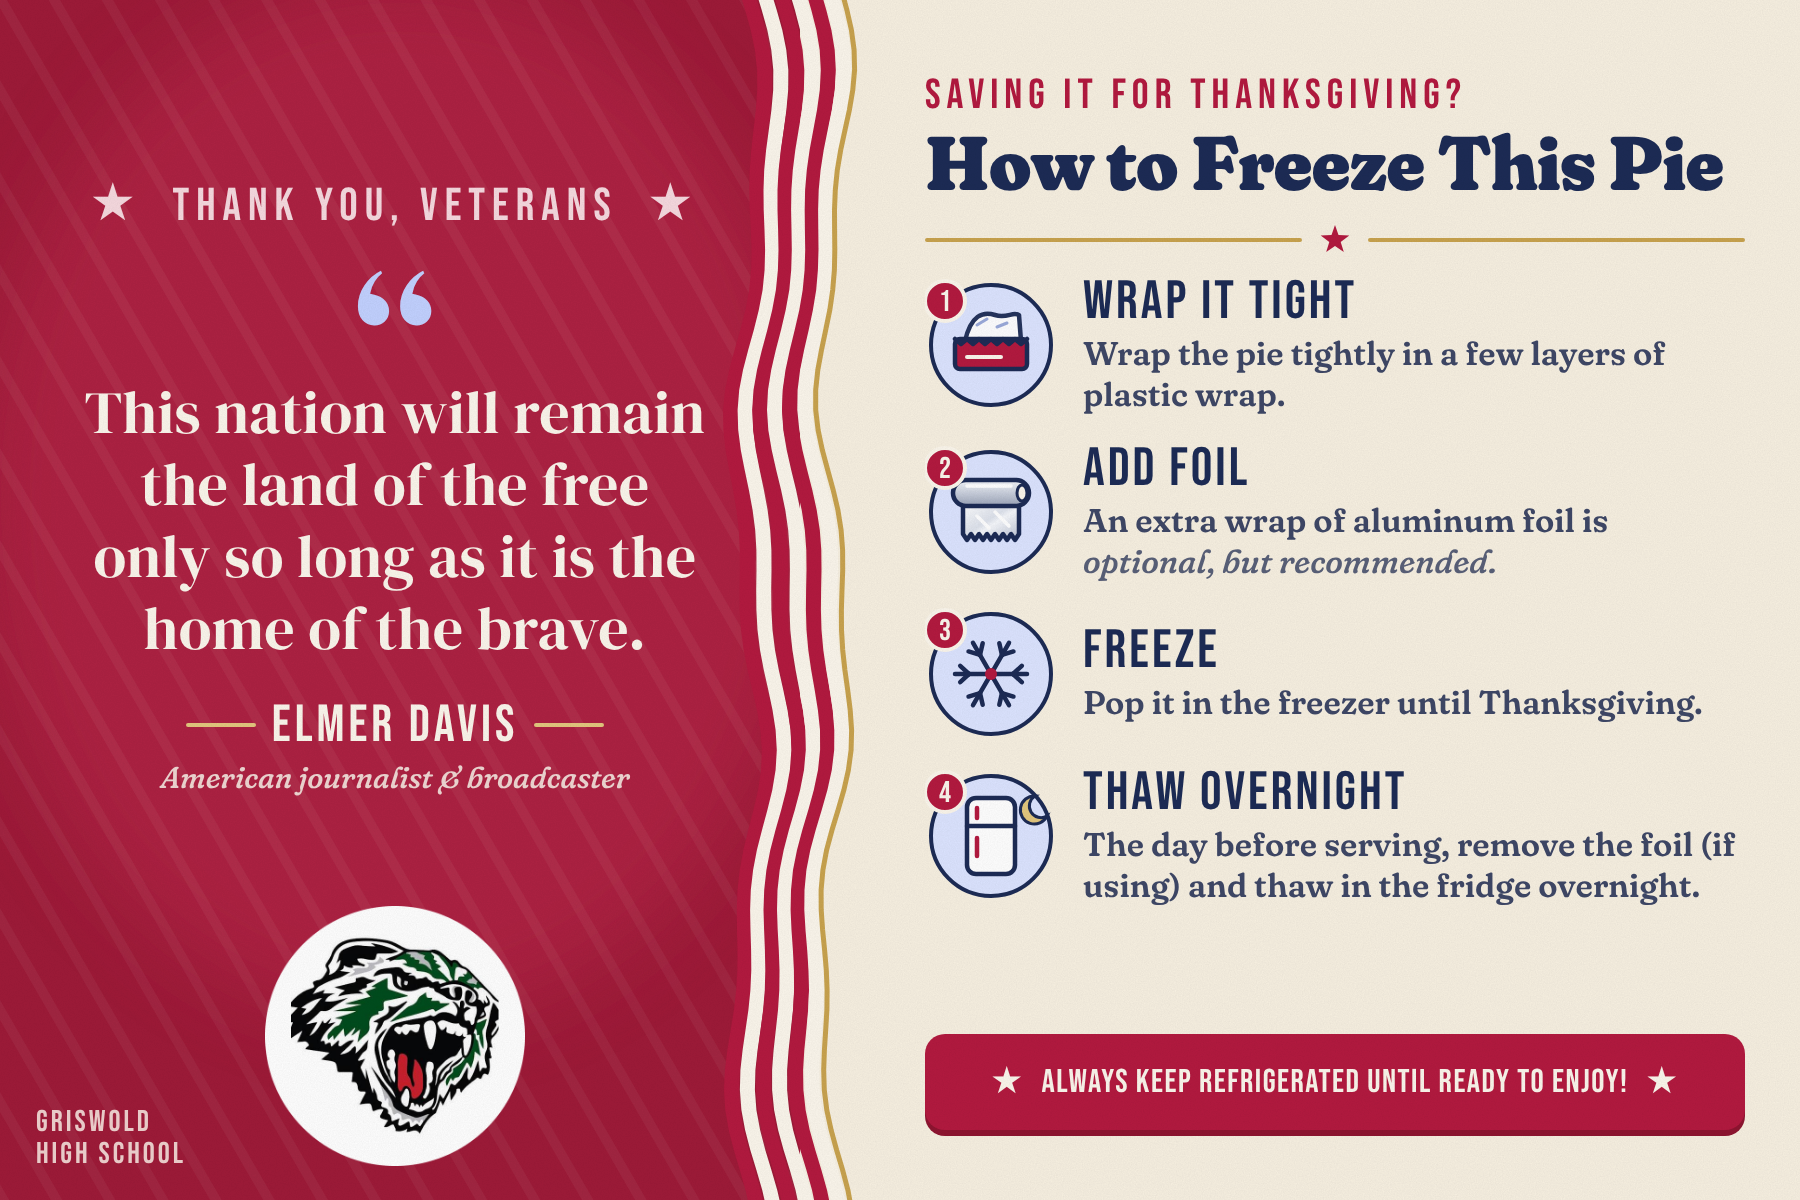
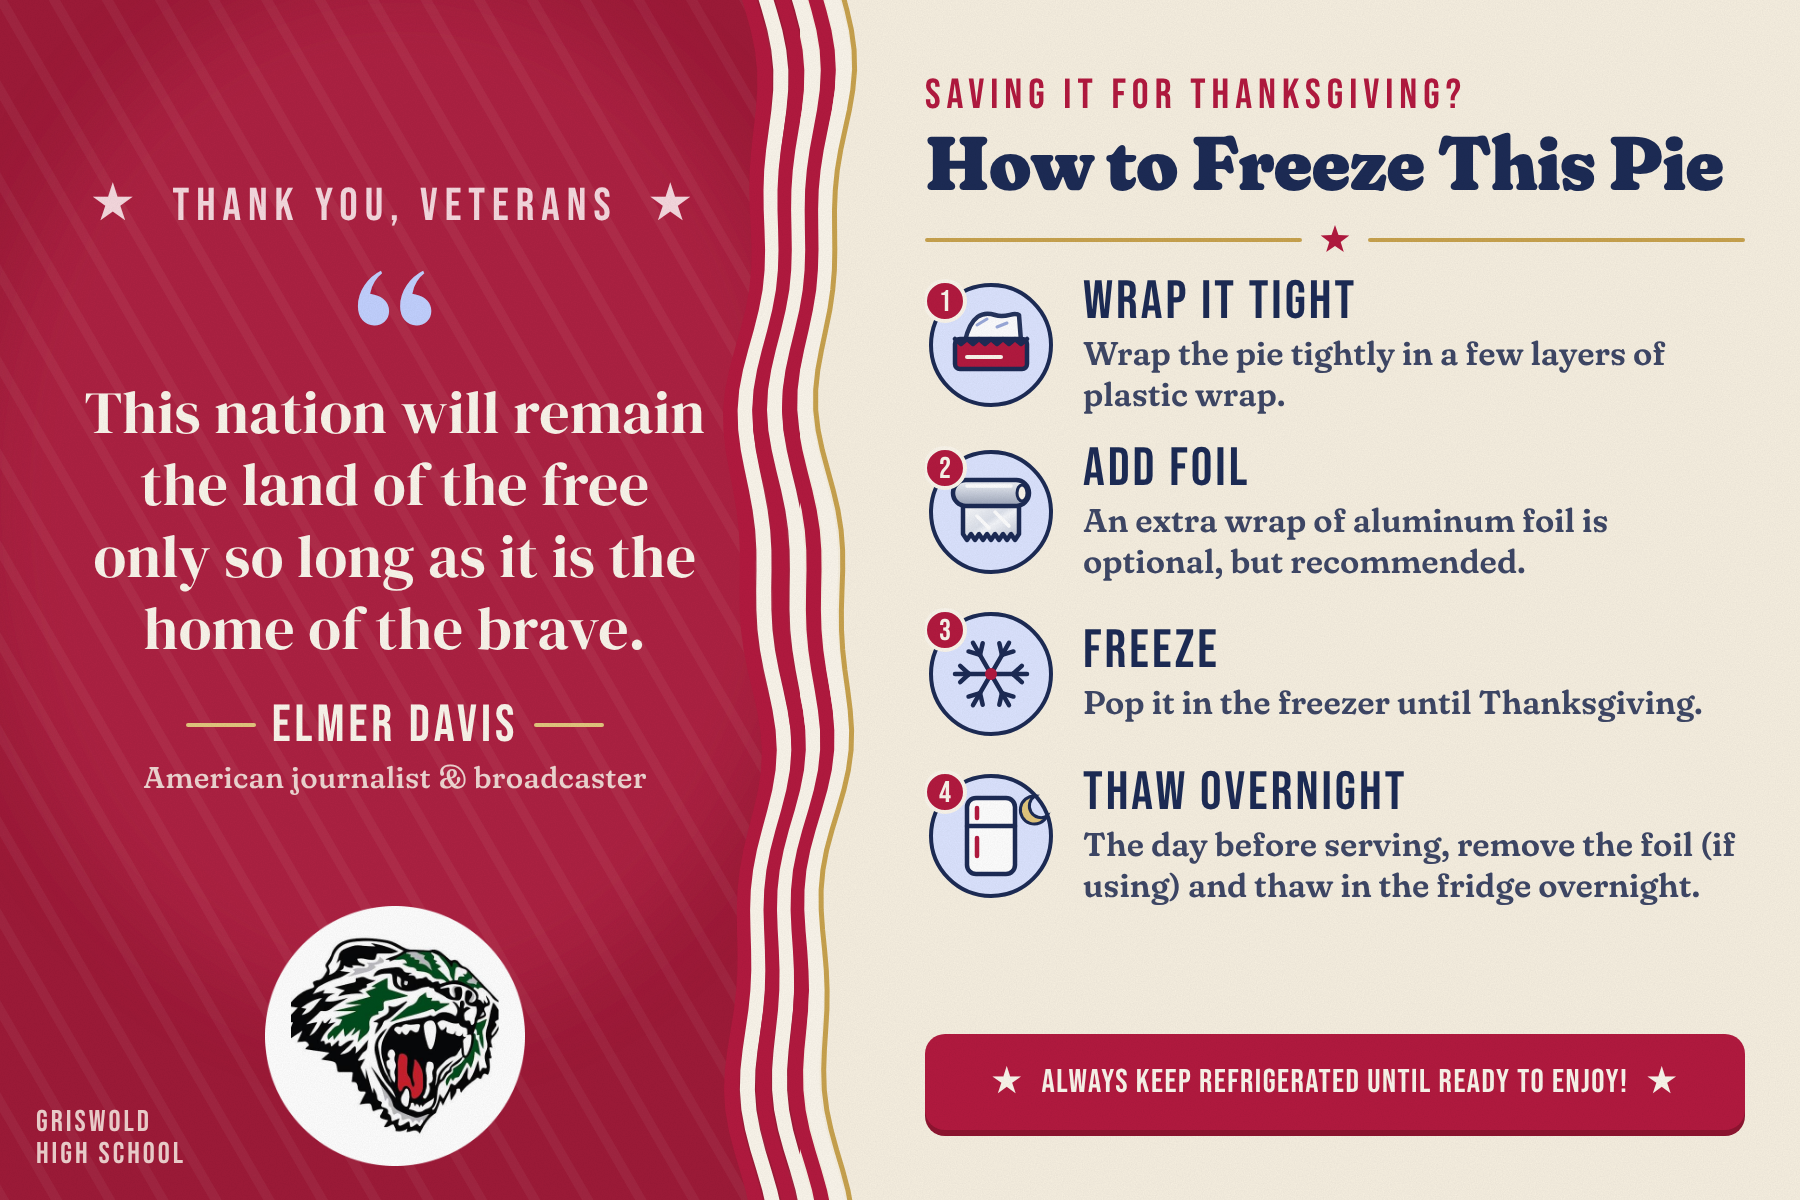
Pie labels: drop curly italic font from foil step and quote subtitles
Claude-Session: https://claude.ai/code/session_01Q88H9i834FyFD65Ubj97LT

Changed region(s): [[0.0933, 0.6167, 0.3422, 0.6783], [0.5911, 0.4625, 0.84, 0.4933]]

diff --git a/pie-labels/source/label.html b/pie-labels/source/label.html
@@ -23,7 +23,7 @@
   .attr .rule { display:flex; align-items:center; gap:16px; }
   .attr .rule i { display:block; width:70px; height:4px; border-radius:2px; }
   .attr .name { font-size:52px; letter-spacing:4px; }
-  .attr .role { font-size:30px; font-style:italic; font-weight:500; opacity:.85; }
+  .attr .role { font-size:30px; font-style:normal; font-weight:500; opacity:.85; letter-spacing:.3px; }
 
   /* RIGHT */
   #right { left:925px; top:70px; width:820px; height:1060px; display:flex; flex-direction:column; }
@@ -36,7 +36,7 @@
   .step svg { flex:none; }
   .step h3 { font-family:'Bebas Neue'; font-weight:400; font-size:54px; letter-spacing:3px; color:var(--navy); line-height:1; }
   .step p { font-weight:600; font-size:33px; line-height:1.25; color:var(--slate); margin-top:4px; }
-  .step p em { font-style:italic; font-weight:500; opacity:.85; }
+  .step p em { font-style:normal; font-weight:600; }
   .pill { margin-top:auto; background:var(--red); color:var(--cream); border-radius:20px; height:96px; display:flex; align-items:center; justify-content:center; gap:20px; font-size:33px; letter-spacing:1.5px; white-space:nowrap; gap:16px; box-shadow: 0 6px 0 var(--red2); }
 </style>
 </head>
